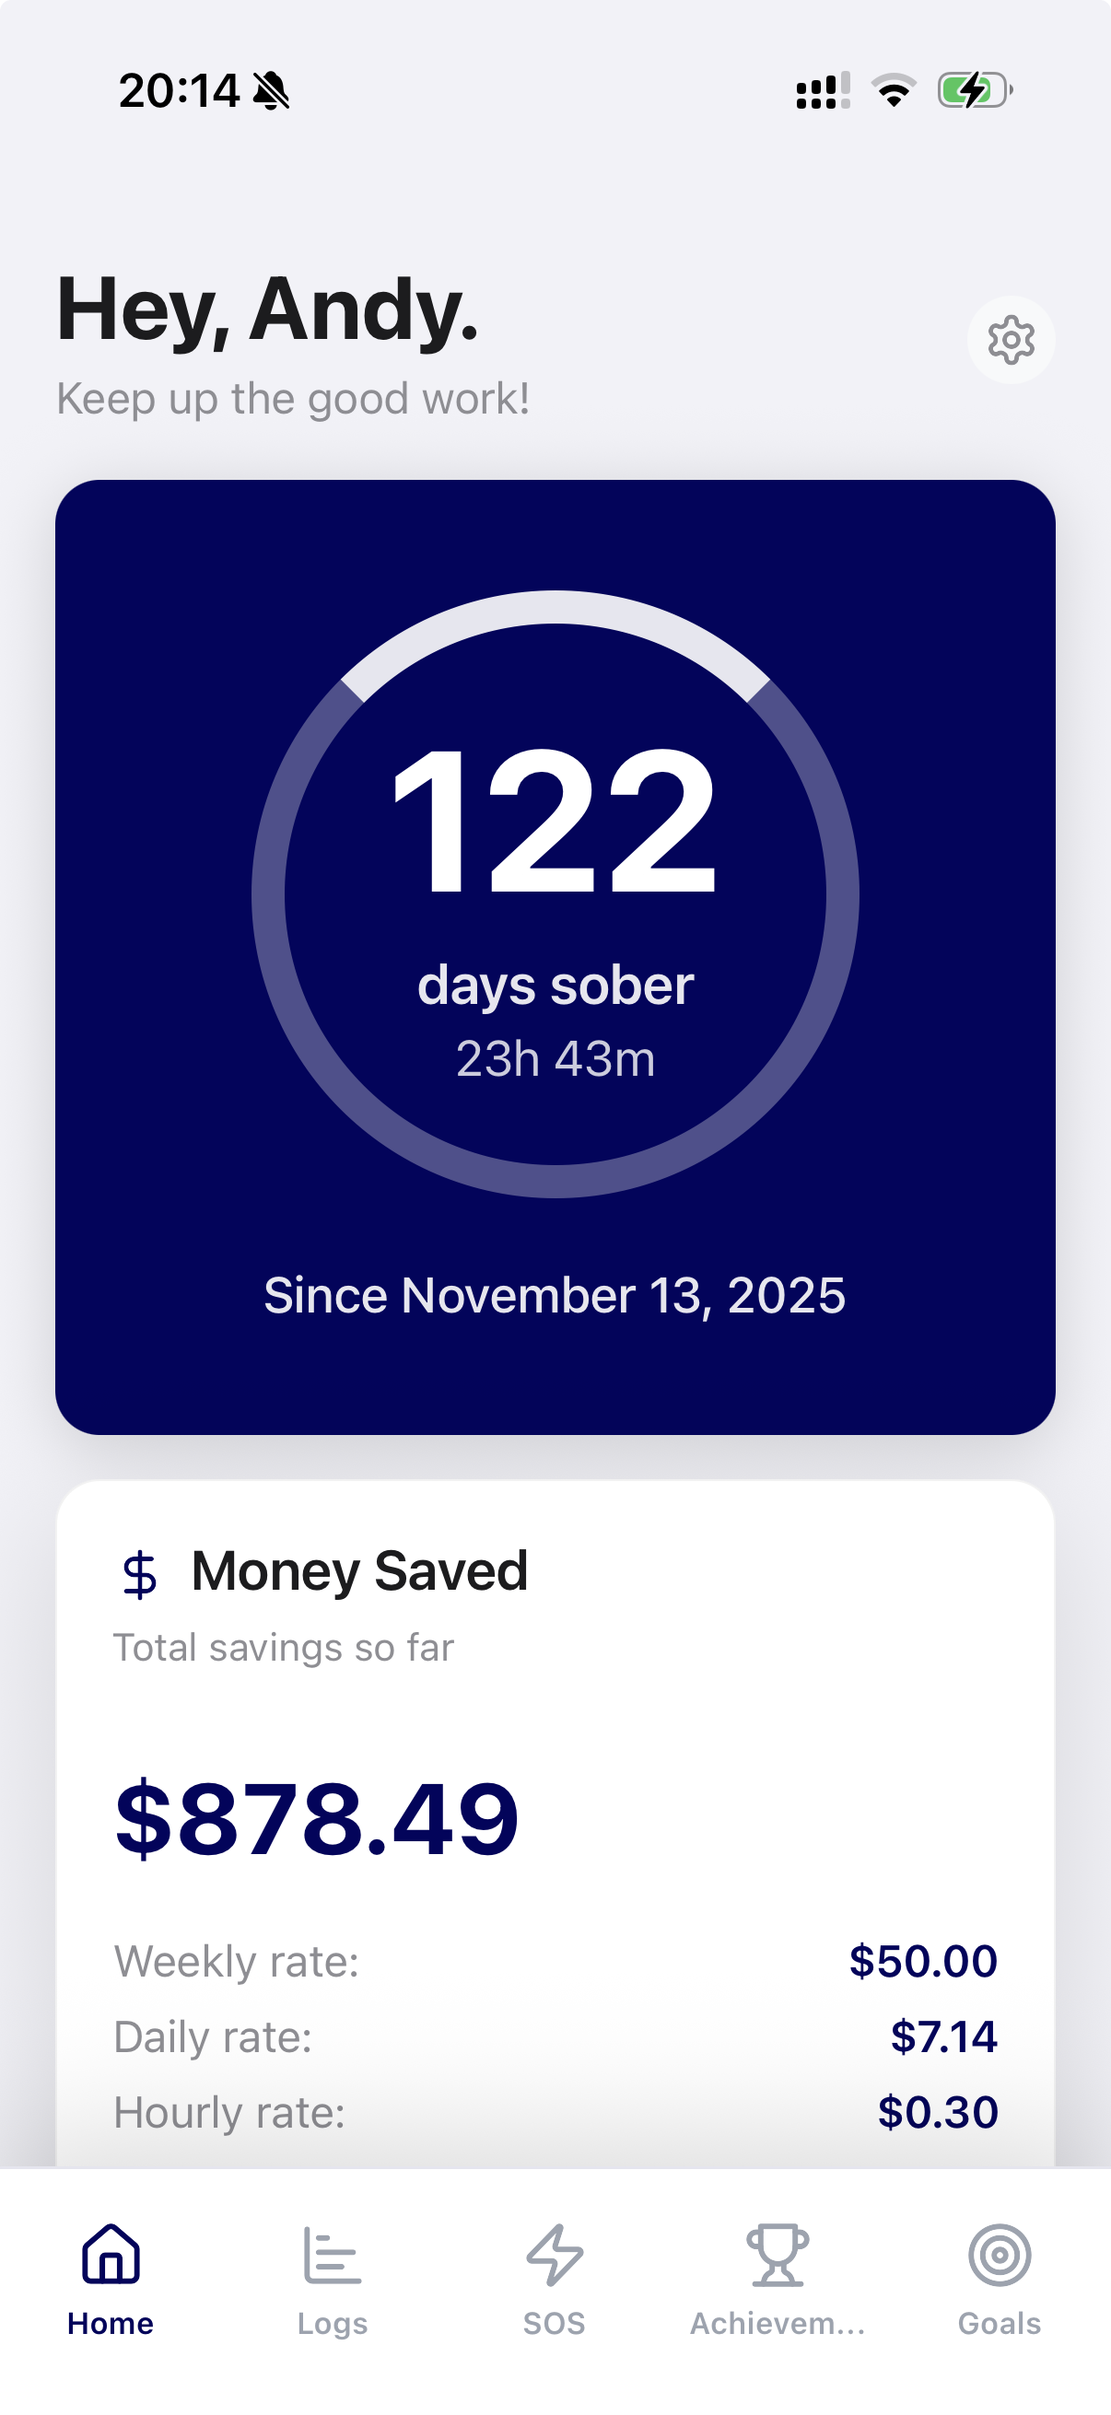
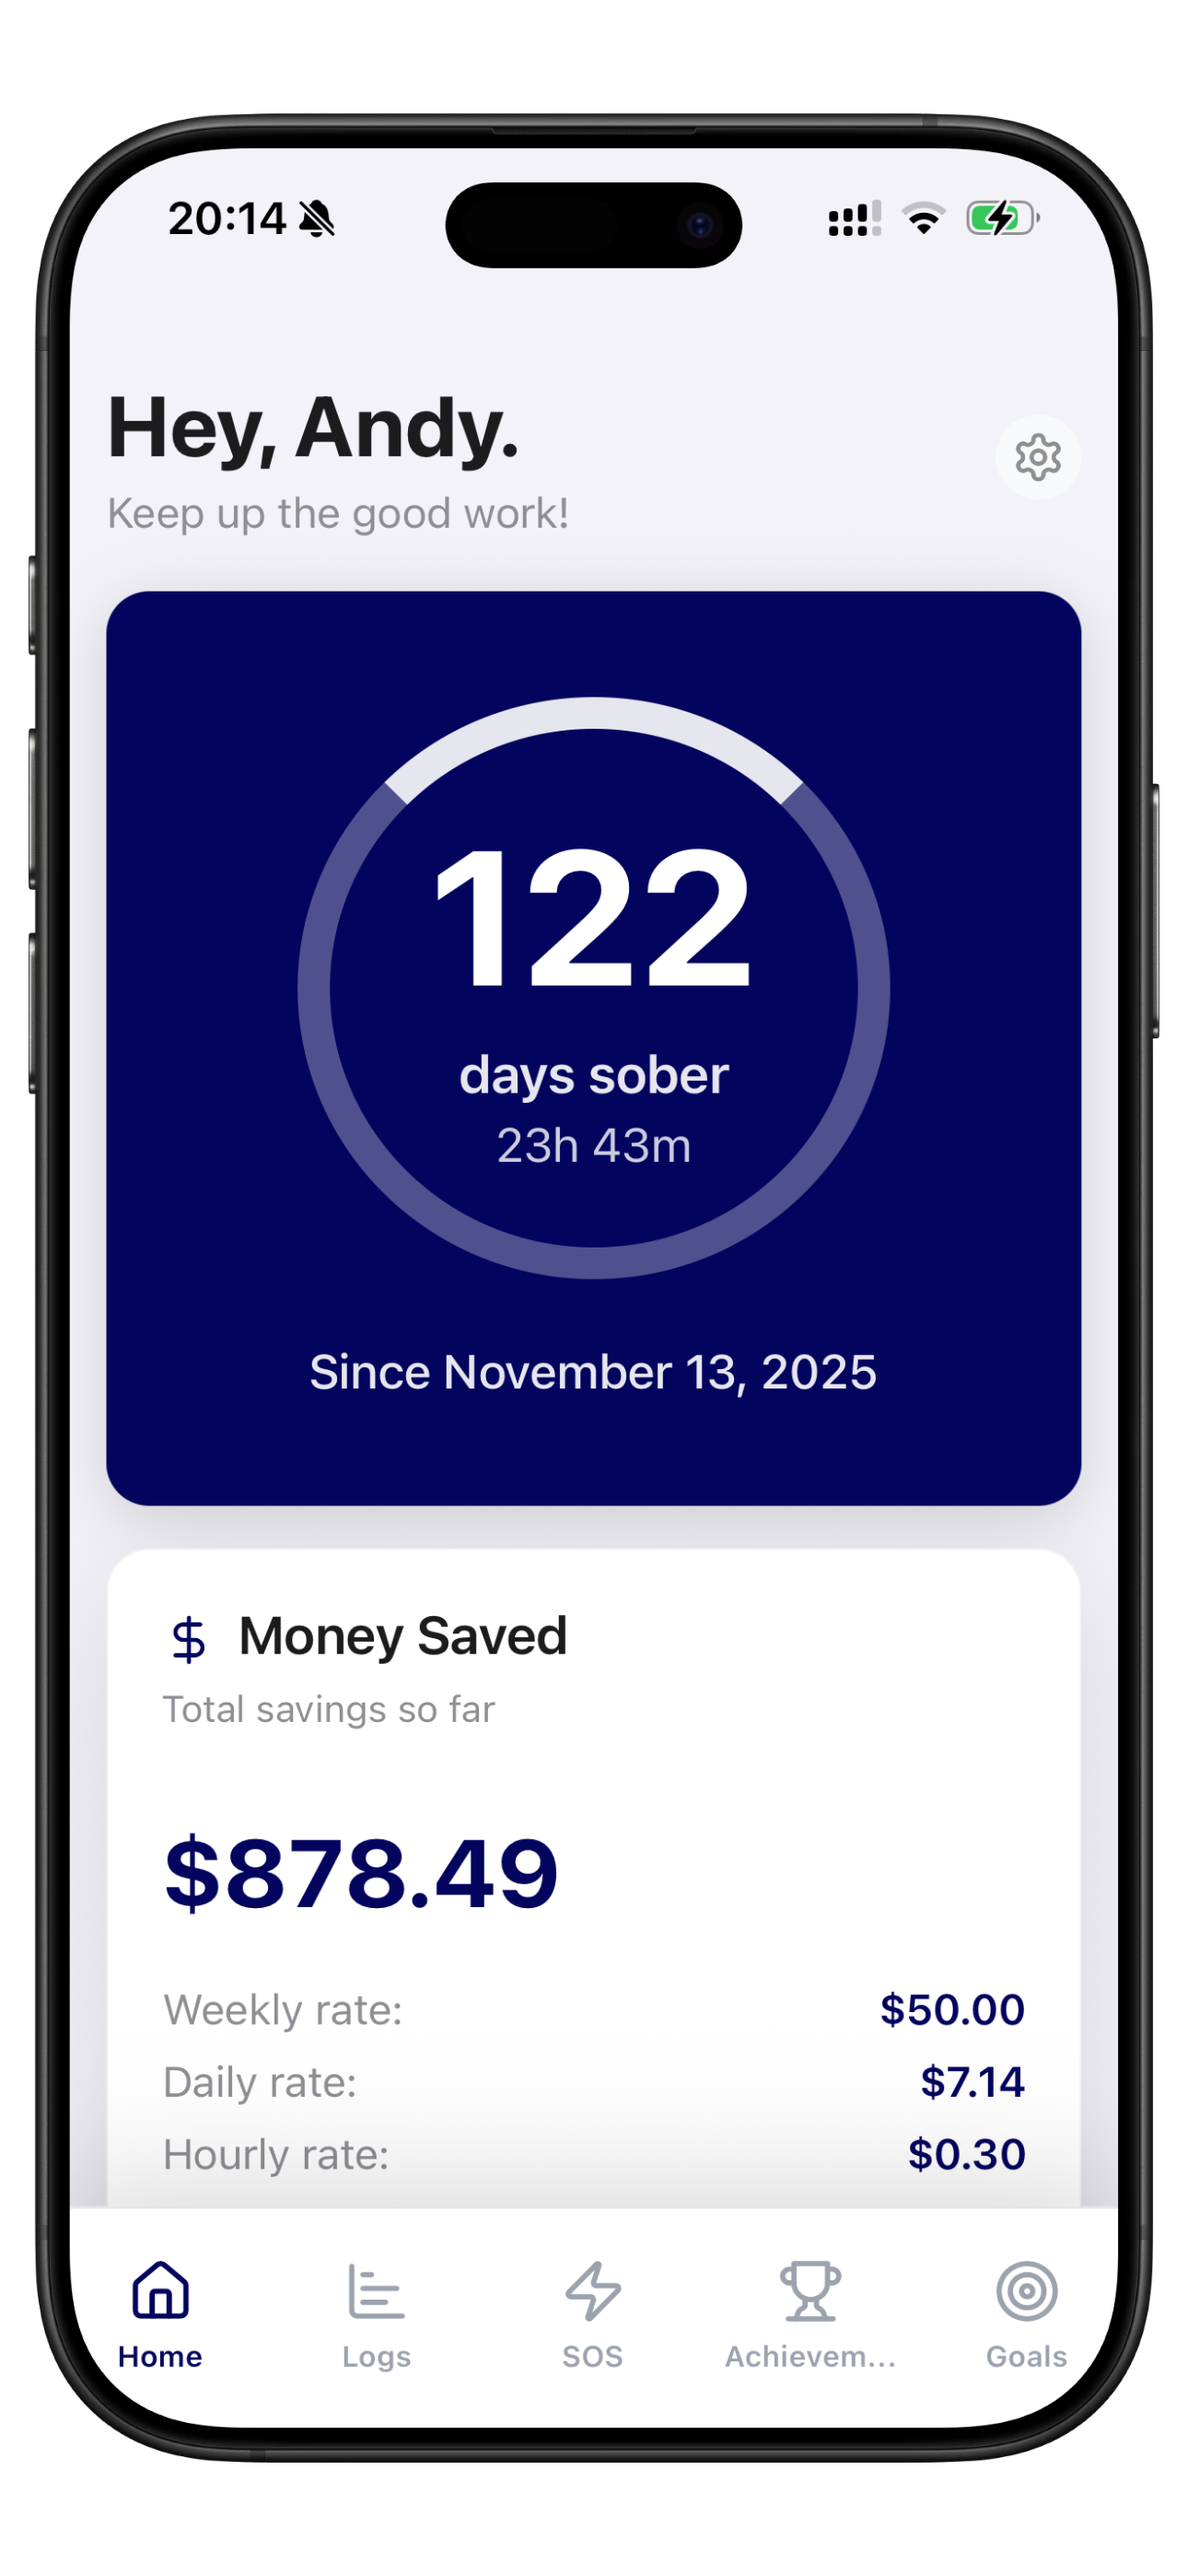
Polish preview screen with phone mockup frames - proper sizing and spacing

Changed region(s): [[0.0, 0.0309, 1.0, 0.9886], [0.2454, 0.5252, 0.767, 0.5561]]

diff --git a/app/onboarding/previews.tsx b/app/onboarding/previews.tsx
@@ -167,17 +167,17 @@ const styles = StyleSheet.create({
   },
   titleContainer: {
     paddingHorizontal: 24,
-    paddingTop: 32,
-    paddingBottom: 24,
+    paddingTop: 8,
+    paddingBottom: 4,
   },
   title: {
-    fontSize: 28,
+    fontSize: 24,
     fontWeight: '700',
     color: '#1A1A2E',
-    marginBottom: 8,
+    marginBottom: 4,
   },
   subtitle: {
-    fontSize: 18,
+    fontSize: 16,
     color: '#6B7280',
     fontWeight: '500',
   },
@@ -189,22 +189,15 @@ const styles = StyleSheet.create({
   },
   slide: {
     width: SCREEN_WIDTH,
-    paddingHorizontal: 24,
+    paddingHorizontal: 40,
     alignItems: 'center',
     justifyContent: 'center',
   },
   screenshotContainer: {
     width: '100%',
-    aspectRatio: 9/16,
-    maxHeight: 450,
-    borderRadius: 24,
-    overflow: 'hidden',
-    backgroundColor: '#F5F5F5',
-    shadowColor: '#000',
-    shadowOffset: { width: 0, height: 4 },
-    shadowOpacity: 0.15,
-    shadowRadius: 12,
-    elevation: 8,
+    height: 500,
+    alignItems: 'center',
+    justifyContent: 'center',
   },
   screenshot: {
     width: '100%',
@@ -212,9 +205,9 @@ const styles = StyleSheet.create({
   },
   bottomSection: {
     paddingHorizontal: 24,
-    paddingBottom: 32,
+    paddingBottom: 20,
     alignItems: 'center',
-    gap: 20,
+    gap: 12,
   },
   pagination: {
     flexDirection: 'row',
